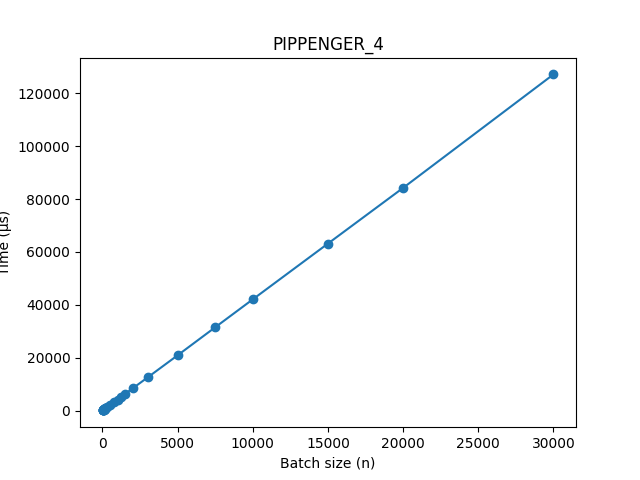
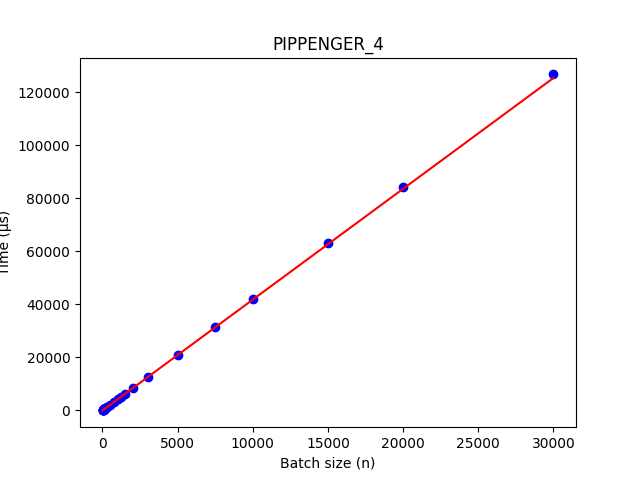
analyze the ABCD values

diff --git a/tools/ecmult_multi_analyze.py b/tools/ecmult_multi_analyze.py
@@ -2,34 +2,79 @@
 import sys
 import os
 from collections import defaultdict
+import numpy as np
 import matplotlib.pyplot as plt
+from scipy import stats
 
-if len(sys.argv) != 2:
-    print(f"Usage: {sys.argv[0]} <calib_data.csv>", file=sys.stderr)
+if len(sys.argv) != 3:
+    print(f"Usage: {sys.argv[0]} <train_data.csv> <test_data.csv>", file=sys.stderr)
     sys.exit(1)
 
-data = defaultdict(list)
-with open(sys.argv[1], 'r') as f:
-    for line in f:
-        line = line.strip()
-        if not line or line.startswith('#'): continue
-        parts = line.split(',')
-        if len(parts) == 3:
-            data[parts[0]].append((int(parts[1]), float(parts[2])))
+def load_csv(filename):
+    data = defaultdict(list)
+    with open(filename, 'r') as f:
+        for line in f:
+            line = line.strip()
+            if not line or line.startswith('#'): continue
+            parts = line.split(',')
+            if len(parts) == 3:
+                data[parts[0]].append((int(parts[1]), float(parts[2])))
+    return data
+
+train_data = load_csv(sys.argv[1])
+test_data = load_csv(sys.argv[2])
 
 os.makedirs('diagrams', exist_ok=True)
 
-for algo, points in data.items():
-    points.sort()
-    ns = [p[0] for p in points]
-    times = [p[1] for p in points]
+analysis = []
+for algo, train_points in train_data.items():
+    train_points.sort()
+    ns_train = [p[0] for p in train_points]
+    times_train = [p[1] for p in train_points]
+
+    # Fit model on training data
+    train_result = stats.linregress(ns_train, times_train)
+    slope, intercept = train_result.slope, train_result.intercept
+
+    # Compute metrics on test data
+    test_points = test_data.get(algo, [])
+    test_points.sort()
+    ns_test = [p[0] for p in test_points]
+    times_test = [p[1] for p in test_points]
+    test_result = stats.linregress(ns_test, times_test)
+    r_squared = test_result.rvalue ** 2
+    pvalue = test_result.pvalue
+    stderr = test_result.stderr
+
+    # Fitted line at test data x-coordinates
+    fitted_line = np.array(ns_test) * slope + intercept
+
+    analysis.append((algo, r_squared, stderr, pvalue, slope, intercept))
 
     plt.figure()
-    plt.plot(ns, times, 'o-')
+    plt.scatter(ns_test, times_test, c='blue')
+    plt.plot(ns_test, fitted_line, 'r-')
     plt.xlabel('Batch size (n)')
     plt.ylabel('Time (μs)')
     plt.title(algo)
     plt.savefig(f'diagrams/{algo}.png')
     plt.close()
 
-print(f"Generated {len(data)} diagrams in diagrams/")
+with open('diagrams/analysis.md', 'w') as f:
+    f.write("# Linear Regression Analysis\n\n")
+    f.write("## Metric Definitions\n\n")
+    f.write("| Metric | Meaning | Good Value for Benchmarking |\n")
+    f.write("|--------|---------|-----------------------------|\n")
+    f.write("| R² | How well the linear model fits (0-1) | > 0.95 (strong linear relationship) |\n")
+    f.write("| Std Error | Uncertainty in slope estimate | Low relative to slope |\n")
+    f.write("| p-value | Probability slope = 0 by chance | < 0.05 (statistically significant) |\n")
+    f.write("| Slope | Time increase per additional n (μs) | Positive, algorithm-dependent |\n")
+    f.write("| Intercept | Fixed overhead time (μs) | Algorithm-dependent |\n\n")
+    f.write("## Per-Algorithm Metrics\n\n")
+    f.write("| Algorithm | R² | Std Error | p-value | Slope | Intercept |\n")
+    f.write("|-----------|------|-----------|---------|-------|----------|\n")
+    for algo, r2, se, pv, sl, ic in analysis:
+        f.write(f"| {algo} | {r2:.6f} | {se:.4f} | {pv:.2e} | {sl:.4f} | {ic:.2f} |\n")
+
+print(f"Generated {len(train_data)} diagrams in diagrams/")
+print(f"Generated analysis in diagrams/analysis.md")

diff --git a/src/bench_ecmult.c b/src/bench_ecmult.c
@@ -81,8 +81,7 @@ static void run_ecmult_multi_calib(bench_data* data) {
         /* Medium (Pippenger small windows, w=6..8) */
         200, 300, 500, 750, 1000, 1200,
         /* Large (Pippenger large windows, w=9..12) */
-        1500, 2000, 3000, 5000, 7500,
-        10000, 15000, 20000, 30000
+        1500, 2000, 3000, 5000, 7500, 10000, 15000, 20000
     };
     static const size_t n_batch_sizes = sizeof(batch_sizes) / sizeof(batch_sizes[0]);
 
@@ -107,12 +106,6 @@ static void run_ecmult_multi_calib(bench_data* data) {
         points[i] = data->pubkeys[i % POINTS];
         scalars[i] = data->scalars[i % POINTS];
     }
-
-    printf("# ECMULT_MULTI Calibration Data\n");
-    printf("# Format: ALGO,N,TIME_US (microseconds per batch)\n");
-    printf("# Copy the DATA section below into the Python script\n");
-    printf("#\n");
-    printf("# BEGIN DATA\n");
 
     /* Measure STRAUSS */
     algo = SECP256K1_ECMULT_MULTI_ALGO_STRAUSS;
@@ -168,12 +161,6 @@ static void run_ecmult_multi_calib(bench_data* data) {
             printf("%s,%lu,%.3f\n", algo_names[algo], (unsigned long)n, time_us);
         }
     }
-
-    printf("# END DATA\n");
-    printf("#\n");
-    printf("# To calculate ABCD constants, run:\n");
-    printf("#   ./bench_ecmult calib 2>&1 | python3 tools/ecmult_multi_calib.py\n");
-    printf("#\n");
 
     free(points);
     free(scalars);

diff --git a/diagrams/analysis.md b/diagrams/analysis.md
@@ -1,0 +1,29 @@
+# Linear Regression Analysis
+
+## Metric Definitions
+
+| Metric | Meaning | Good Value for Benchmarking |
+|--------|---------|-----------------------------|
+| R² | How well the linear model fits (0-1) | > 0.95 (strong linear relationship) |
+| Std Error | Uncertainty in slope estimate | Low relative to slope |
+| p-value | Probability slope = 0 by chance | < 0.05 (statistically significant) |
+| Slope | Time increase per additional n (μs) | Positive, algorithm-dependent |
+| Intercept | Fixed overhead time (μs) | Algorithm-dependent |
+
+## Per-Algorithm Metrics
+
+| Algorithm | R² | Std Error | p-value | Slope | Intercept |
+|-----------|------|-----------|---------|-------|----------|
+| STRAUSS | 0.983536 | 0.1660 | 1.29e-25 | 6.2956 | -1917.23 |
+| PIPPENGER_1 | 0.999995 | 0.0039 | 6.29e-73 | 8.5860 | -133.20 |
+| PIPPENGER_2 | 0.999992 | 0.0036 | 9.98e-71 | 6.7066 | -115.04 |
+| PIPPENGER_3 | 0.999993 | 0.0026 | 8.15e-71 | 4.9746 | -34.11 |
+| PIPPENGER_4 | 0.999996 | 0.0015 | 5.34e-75 | 4.1772 | -13.27 |
+| PIPPENGER_5 | 0.999995 | 0.0015 | 1.16e-73 | 3.5473 | 56.56 |
+| PIPPENGER_6 | 0.999991 | 0.0019 | 2.30e-69 | 3.1035 | 105.03 |
+| PIPPENGER_7 | 0.999994 | 0.0013 | 4.69e-72 | 2.7083 | 219.62 |
+| PIPPENGER_8 | 0.999989 | 0.0016 | 2.64e-68 | 2.4879 | 414.58 |
+| PIPPENGER_9 | 0.999977 | 0.0021 | 3.76e-64 | 2.2872 | 719.46 |
+| PIPPENGER_10 | 0.999953 | 0.0028 | 5.02e-60 | 2.1705 | 1287.92 |
+| PIPPENGER_11 | 0.999847 | 0.0049 | 4.73e-53 | 2.0592 | 2321.53 |
+| PIPPENGER_12 | 0.999583 | 0.0075 | 3.62e-47 | 1.9331 | 4153.43 |
